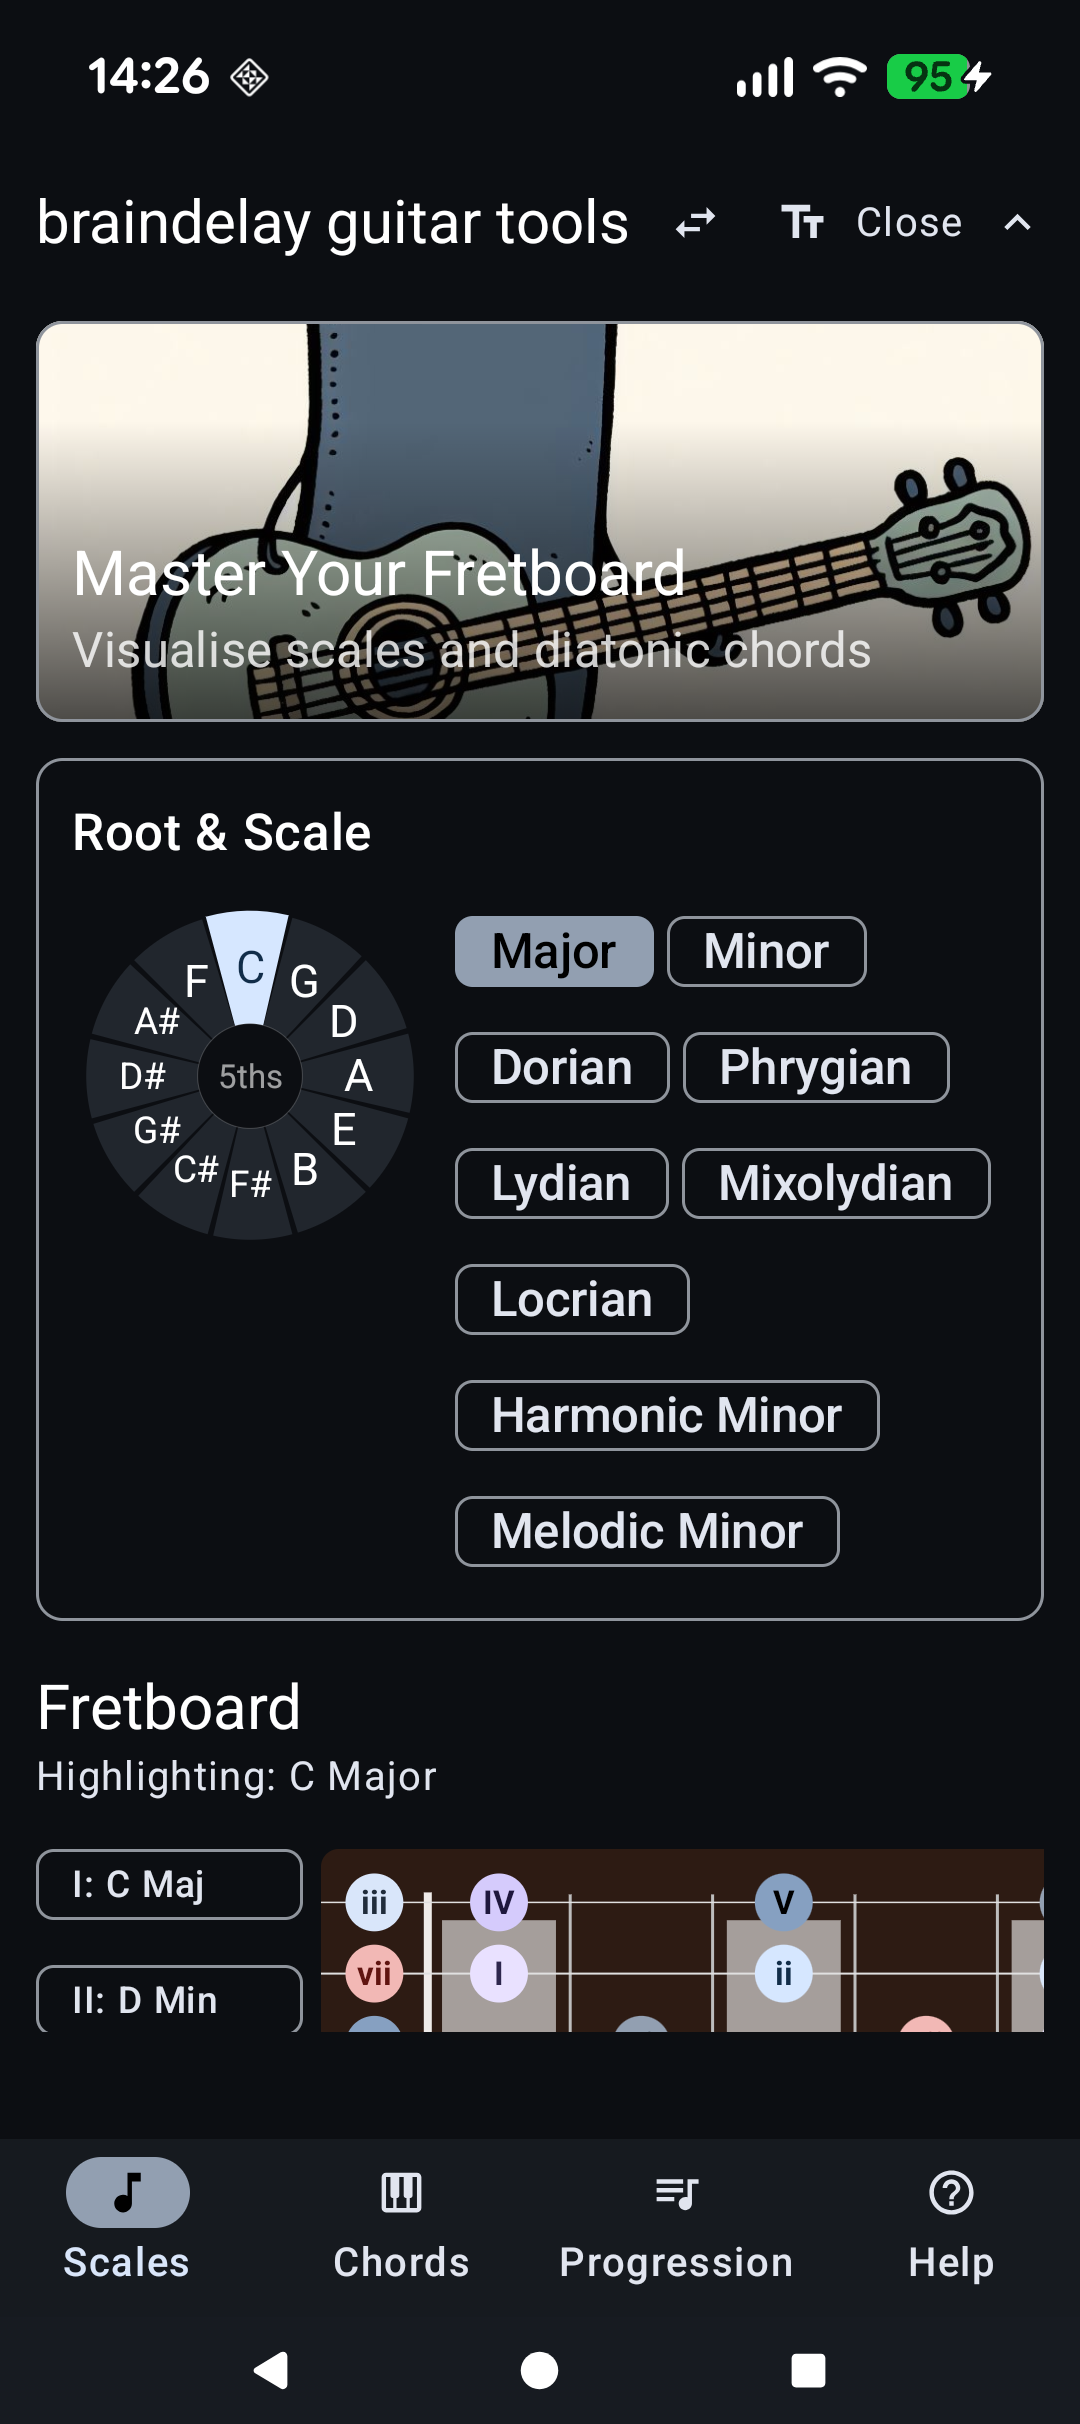
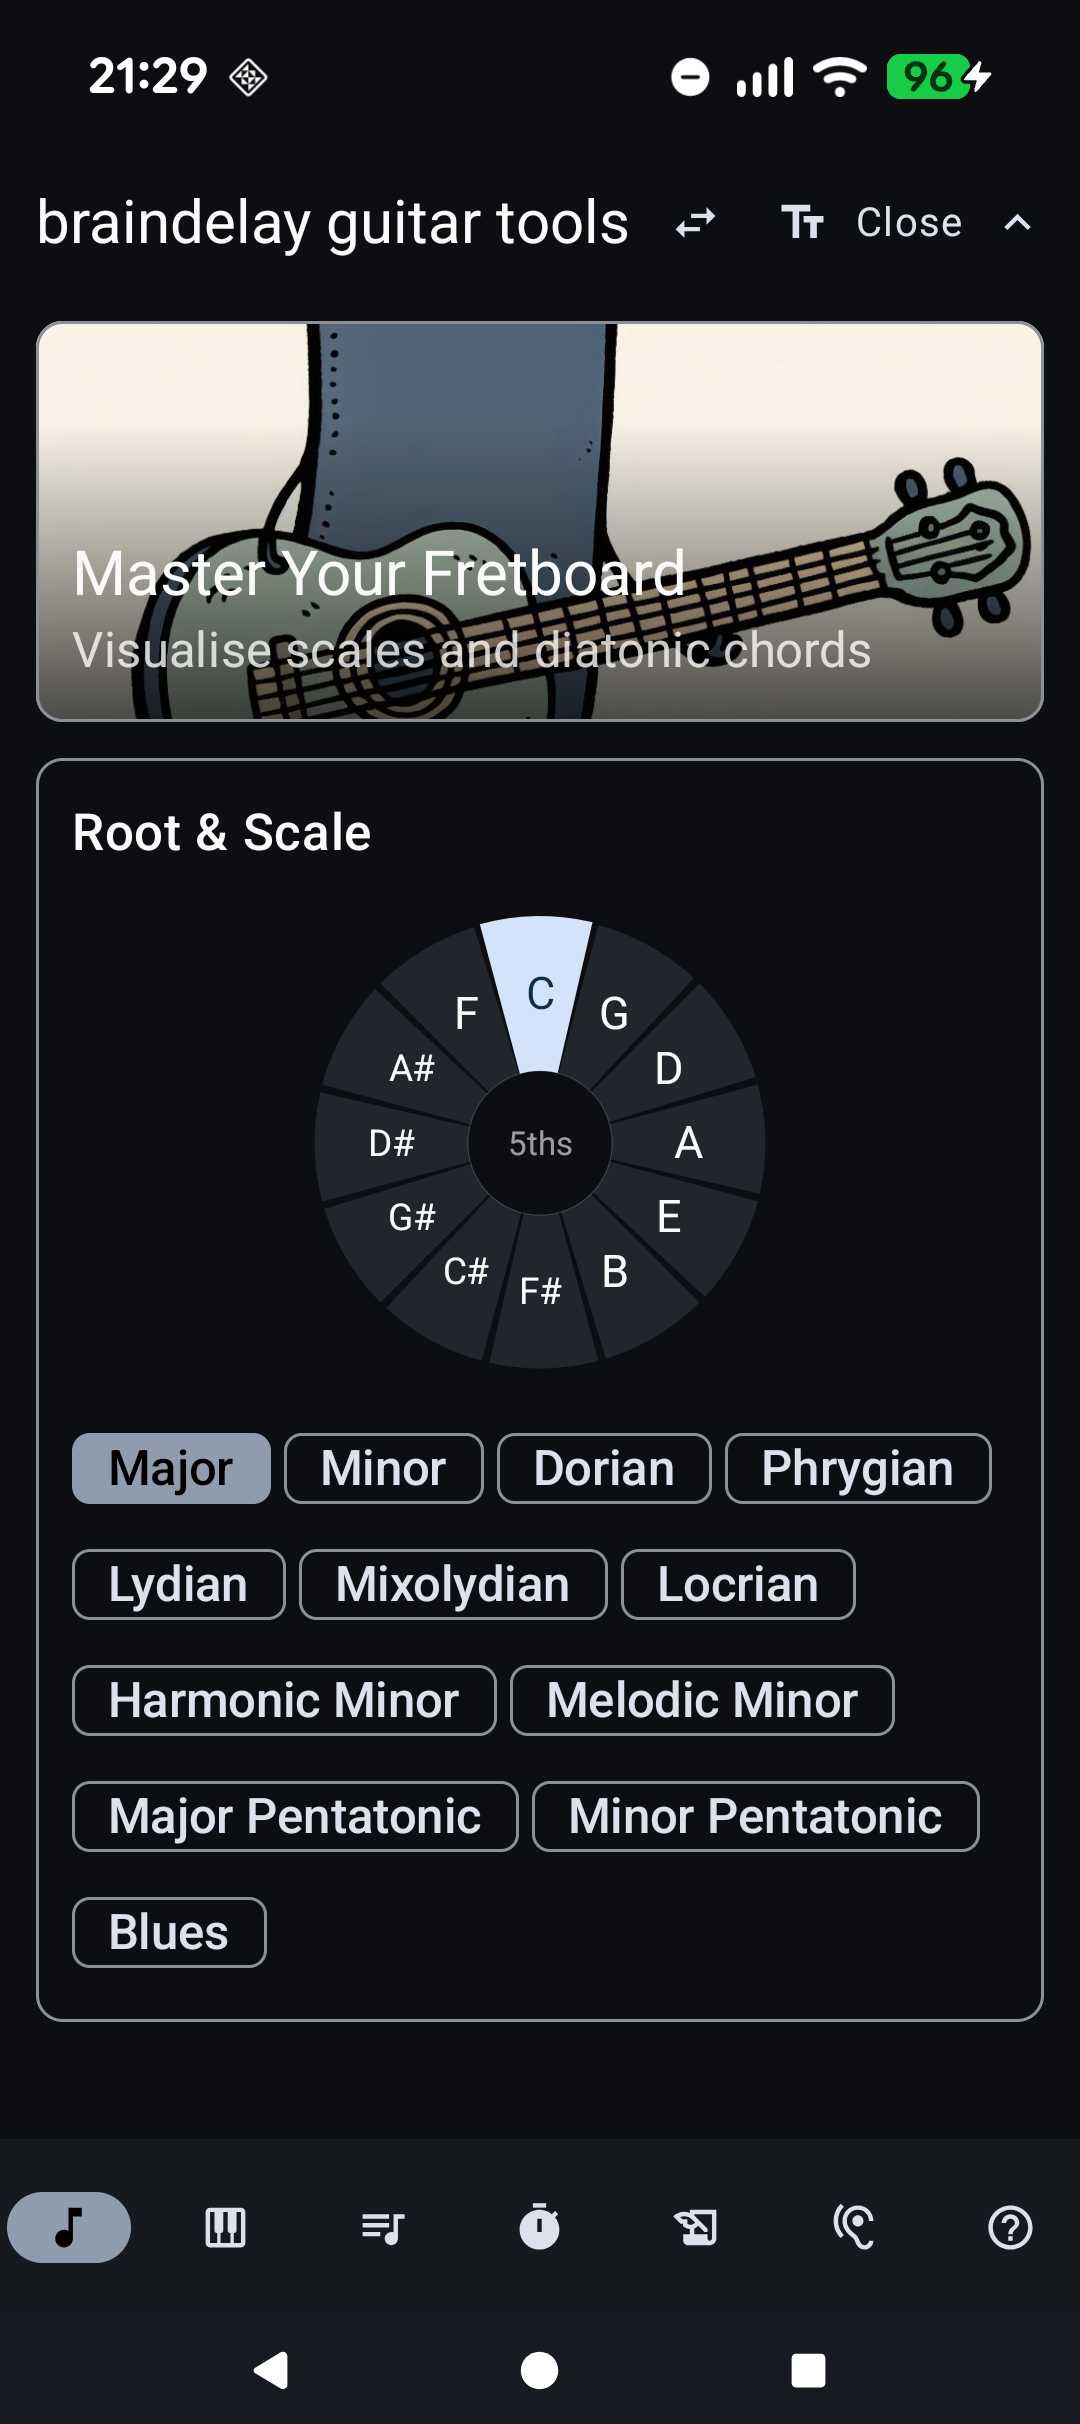
update layout

diff --git a/app/src/main/java/com/braindelay/guitartools/ui/HelpScreen.kt b/app/src/main/java/com/braindelay/guitartools/ui/HelpScreen.kt
@@ -186,6 +186,10 @@ private fun SectionBlock(id: String) {
                     "**Collapse the selector** — tap the arrow in the top bar to hide the Root & Scale panel and focus on the fretboard. Tap again to restore it."
                 )
             )
+            BodyText(
+                "In **portrait** the Root & Scale card stacks vertically — a large Circle of Fifths on top with the mode chips wrapping over multiple rows beneath it. " +
+                        "In **landscape** the circle sits on the left and the chips fill the remaining width on the right."
+            )
             SubHeader("Pentatonic and Blues Scales")
             BulletList(
                 listOf(
@@ -312,6 +316,8 @@ private fun SectionBlock(id: String) {
                 listOf(
                     "Tap **Templates** to open a sheet of preset progressions. Templates resolve against the key currently set in the Scales screen.",
                     "Select a template to preview the chord sequence, then press **Load** (replaces current) or **Append** (adds to the end).",
+                    "The library covers pop (I–V–vi–IV, Heart-and-Soul, Pachelbel), modal vamps (Mixolydian I–bVII–IV, Andalusian Cadence, Dorian i–IV), jazz (ii–V–I, Jazz Turnaround, Minor ii–V–i, Jazz Blues 12-bar), and the original I–IV–V exercise patterns.",
+                    "Modal/minor templates assume the user is on the matching mode (Mixolydian / Minor / Dorian) for the degrees to resolve into the expected chords.",
                     "Templates named after exercises — e.g. \"Approach Notes (I–IV–V)\" — are designed to be used alongside those exercises."
                 )
             )
@@ -329,7 +335,7 @@ private fun SectionBlock(id: String) {
                     "Press **▶** to start looping. The metronome starts automatically at the same tempo. The active chord is highlighted.",
                     "Press **⏸** to stop — the metronome stops at the same time.",
                     "While playing, switch to the **Scales** tab to see the chord arpeggios highlighted on the fretboard in real time.",
-                    "The fretboard also previews the **next** chord one beat early so you can see what is coming."
+                    "The fretboard also previews the **next** chord one beat early so you can see what is coming. In fullscreen the chord-name overlay shows the current and next chord side by side, e.g. **C Maj → G Maj**, on that final beat."
                 )
             )
         }
@@ -379,18 +385,18 @@ private fun SectionBlock(id: String) {
             NumberedList(
                 listOf(
                     "Tap the drill chips at the top to switch between **Interval**, **Scale Degree**, and **Chord Quality**. Switching resets the score.",
-                    "Press **Start** to play the first question; tap **Replay** to hear it again.",
-                    "Tap an answer chip to submit your guess. The correct answer is highlighted; if you picked wrong, your choice is also marked.",
-                    "Press **Next question** to advance.",
-                    "**Score** shows correct out of attempted; **Streak** tracks consecutive correct answers. Press **Reset** to clear the session."
+                    "Press **Start** to play the first question; tap **Replay** to hear it again. Replay is the lighter tonal button; Start / Next question is the filled primary button.",
+                    "Tap an answer chip to submit your guess. A correct pick turns **bright green**; a wrong pick turns **bright red** and the correct chip turns **dark green**.",
+                    "Press **Next question** to advance — the Settings panel auto-collapses on each new question.",
+                    "**Score** shows correct out of attempted, with a coloured **percentage** to its right (e.g. \"Score 18 / 22 : 81 %\"). The percentage stays a darker grey until 20 attempts have been made; after that it turns green when ≥ 80 % and red when < 80 %. **Streak** tracks consecutive correct answers. Press **Reset** to clear the session."
                 )
             )
             SubHeader("Settings")
             BulletList(
                 listOf(
-                    "**Interval drill** — toggle which intervals are in the pool (m2 through P8); choose Ascending, Descending, or Harmonic playback.",
+                    "**Interval drill** — toggle which intervals are in the pool (m2 through P8); multi-select **Ascending**, **Descending**, and **Harmonic** playback (the drill picks one mode at random per question, and Replay reuses it). A **Clear** button on the header empties both the pool and the playback set.",
                     "**Scale Degree drill** — pick the root note used to anchor the major scale.",
-                    "**Chord Quality drill** — toggle which qualities are in the pool."
+                    "**Chord Quality drill** — toggle which qualities are in the pool. A **Clear** button on the header empties the pool."
                 )
             )
         }

diff --git a/README.md b/README.md
@@ -15,6 +15,8 @@ A tool to help guitarists learn scales, chord voicings, and progressions. Visual
 3. The fretboard updates immediately, showing every scale note labelled with Roman numeral degrees (I–VII). Root notes appear in a distinct colour.
 4. **Collapse the selector** — tap the arrow in the top bar to hide the Root & Scale panel and focus on the fretboard. Tap again to restore it.
 
+In **portrait** the Root & Scale card stacks vertically — a large Circle of Fifths on top, with the mode chips wrapping over multiple rows beneath it. In **landscape** the circle sits on the left and the mode chips fill the remaining width on the right.
+
 #### Pentatonic and Blues scales
 
 <img src="./screenshots/11_pentatonic.png" width="480"/>
@@ -95,8 +97,13 @@ The chord selector shows the circle of fifths on the left, chord type chips in t
 5. Use the **← →** arrows to reorder chords and **✕** to delete one.
 
 #### Templates
+
+<img src="./screenshots/12_templates.png" width="480"/>
+
 - Tap **Templates** to open a sheet of preset progressions. Templates resolve against the key currently set in the Scales screen.
 - Select a template to preview the chord sequence, then press **Load** (replaces current) or **Append** (adds to the end).
+- The library covers pop (I–V–vi–IV, Heart-and-Soul I–vi–ii–V, Pachelbel), modal vamps (Mixolydian I–bVII–IV, Andalusian Cadence, Dorian i–IV), jazz (ii–V–I and its turnaround variant, Minor ii–V–i, Jazz Blues 12-bar), and the original I–IV–V exercise patterns.
+- Modal/minor templates assume the user is on the matching mode (Mixolydian / Minor / Dorian) for the degrees to resolve into the expected chords.
 - Templates named after exercises — e.g. "Approach Notes (I–IV–V)" — are designed to be used alongside those exercises.
 
 #### Saved progressions
@@ -108,7 +115,7 @@ The chord selector shows the circle of fifths on the left, chord type chips in t
 2. Press **▶** to start looping. The metronome starts automatically at the same tempo. The active chord is highlighted.
 3. Press **⏸** to stop — the metronome stops at the same time.
 4. While playing, switch to the **Scales** tab to see the chord arpeggios highlighted on the fretboard in real time.
-5. The fretboard also previews the **next** chord one beat early so you can see what is coming.
+5. The fretboard also previews the **next** chord one beat early so you can see what is coming. In fullscreen, the chord-name overlay shows the current chord followed by an arrow and the upcoming chord (e.g. **C Maj → G Maj**) for that final beat.
 
 ---
 
@@ -164,12 +171,14 @@ Three listen-and-pick drills for sharpening your ear. All audio is generated by 
 
 #### Using the drills
 1. Tap the drill chips at the top to switch between **Interval**, **Scale Degree**, and **Chord Quality**. Switching resets the score.
-2. Press **Start** to play the first question; tap **Replay** to hear it again.
-3. Tap an answer chip to submit your guess. The correct answer is highlighted; if you picked wrong, your choice is also marked.
-4. Press **Next question** to advance.
-5. **Score** shows correct out of attempted; **Streak** tracks consecutive correct answers. Press **Reset** to clear the session.
+2. Press **Start** to play the first question; tap **Replay** to hear it again. (Replay is the lighter tonal button; Start / Next question is the filled primary button.)
+3. Tap an answer chip to submit your guess.
+   - If you picked correctly, that chip turns **bright green**.
+   - If you picked wrong, your chip turns **bright red** and the correct chip is highlighted in **dark green**.
+4. Press **Next question** to advance — the Settings panel auto-collapses on each new question.
+5. **Score** shows correct out of attempted, with a coloured **percentage** to its right (e.g. "Score 18 / 22 : 81 %"). The percentage stays a darker grey until 20 attempts have been made; after that it turns green when ≥ 80 % and red when < 80 %. **Streak** tracks consecutive correct answers. Press **Reset** to clear the session.
 
 #### Settings
-- **Interval drill** — toggle which intervals are in the pool (m2 through P8); choose Ascending, Descending, or Harmonic playback.
+- **Interval drill** — toggle which intervals are in the pool (m2 through P8); multi-select **Ascending**, **Descending**, and **Harmonic** playback (the drill picks one mode at random per question, and Replay reuses it). A **Clear** button on the header empties both the pool and the playback set.
 - **Scale Degree drill** — pick the root note used to anchor the major scale.
-- **Chord Quality drill** — toggle which qualities are in the pool.
+- **Chord Quality drill** — toggle which qualities are in the pool. A **Clear** button on the header empties the pool.
